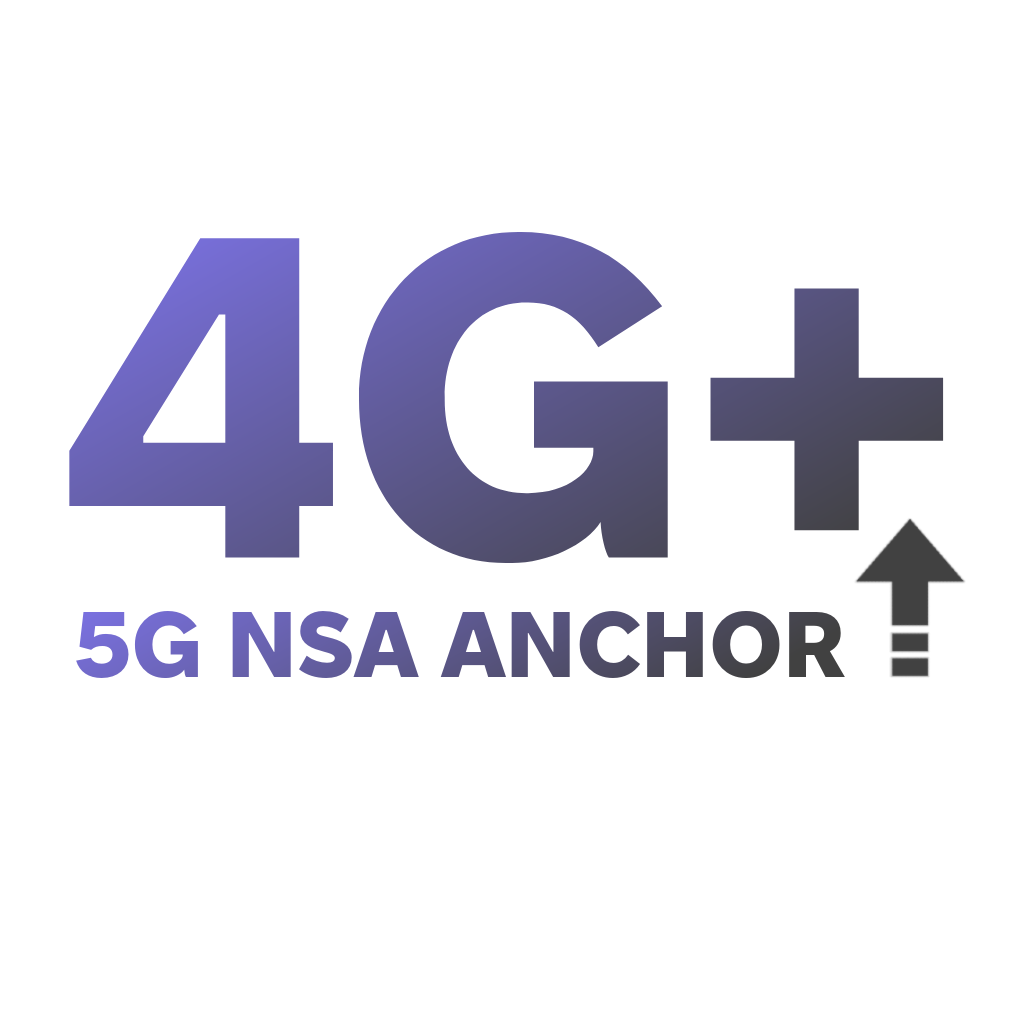
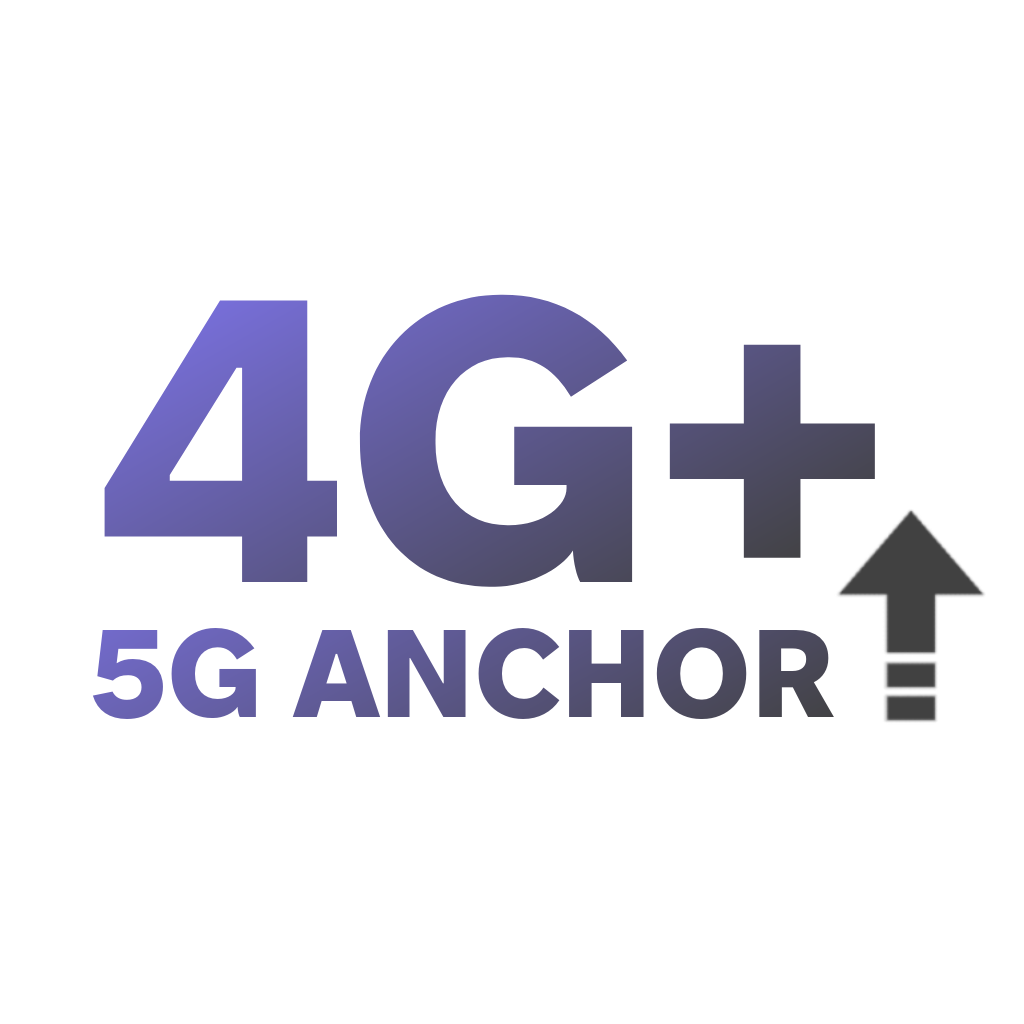
Add support for override network type in cell data processing and display

Changed region(s): [[0.0625, 0.2188, 0.9688, 0.7188]]

diff --git a/lib/helper/display.dart b/lib/helper/display.dart
@@ -9,8 +9,10 @@ String getNetworkIcon(CellData? cellData) {
     case '3G':
       return 'assets/images/NetworkIcons/3G.png';
     case '4G':
+
+      // Start NSA checks
       if (cellData.nrCcCount > 0) {
-        // 4G + 5G NSA
+        // NR NSA
         if (cellData.lteCcCount > 1) {
           // LTE CA
           if (cellData.nrCcCount > 1) {
@@ -29,15 +31,28 @@ String getNetworkIcon(CellData? cellData) {
         // NR NSA without LTE CA
         return 'assets/images/NetworkIcons/5GNSA.png';
       }
+      // End NSA checks
 
-      if (cellData.lteCcCount > 1) { // LTE CA only
+      // Start Anchor Band checks
+      if (cellData.overrideNetworkType == 'NR_NSA') {
+        // no NR band but NR_NSA, means camping on Anchor Band
+        if (cellData.lteCcCount > 1) {
+          return 'assets/images/NetworkIcons/4GPlus_NSAAnchor.png';
+        }
+        return 'assets/images/NetworkIcons/4G_NSAAnchor.png';
+      }
+      // End Anchor Band checks
+
+      if (cellData.lteCcCount > 1 || cellData.overrideNetworkType == 'LTE_CA') {
+        // LTE CA only
         return 'assets/images/NetworkIcons/4GPlus.png';
       }
 
       // Standard 4G
       return 'assets/images/NetworkIcons/4G.png';
     case 'SA':
-      if (cellData.nrCcCount > 1) { // NR SA CA
+      if (cellData.nrCcCount > 1) {
+        // NR SA CA
         return 'assets/images/NetworkIcons/5GPlusSA.png';
       }
 
@@ -99,65 +114,84 @@ String getImsIcon(String? imsStatus) {
 
 Widget getRsrpDisplay(double rsrp) {
   if (rsrp == 2683662) {
-    return Text("-", style: TextStyle(color: Colors.grey,));
+    return Text("-", style: TextStyle(color: Colors.grey));
   }
   Color color;
-  if (rsrp < -115) { // < -115 dBm
+  if (rsrp < -115) {
+    // < -115 dBm
     color = Colors.red;
-  } else if (rsrp < -105) { // -115 to -105 dBm
+  } else if (rsrp < -105) {
+    // -115 to -105 dBm
     color = Colors.orange;
-  } else if (rsrp < -90) { // -105 to -90 dBm
+  } else if (rsrp < -90) {
+    // -105 to -90 dBm
     color = Colors.yellow;
-  } else if (rsrp < -80) { // -90 to -80 dBm
+  } else if (rsrp < -80) {
+    // -90 to -80 dBm
     color = Colors.lightGreen;
-  } else if (rsrp < -75) {  // -80 to -75 dBm
+  } else if (rsrp < -75) {
+    // -80 to -75 dBm
     color = Colors.greenAccent;
-  } else { // > -75 dBm
+  } else {
+    // > -75 dBm
     color = const Color.fromARGB(255, 110, 209, 255);
   }
   final String displayText = "${rsrp.toInt()} dBm";
-  return Text(displayText, style: TextStyle(color: color,));
+  return Text(displayText, style: TextStyle(color: color));
 }
 
 Widget getSinrDisplay(double sinr) {
   if (sinr == 2683662) {
-    return Text("-", style: TextStyle(color: Colors.grey,));
+    return Text("-", style: TextStyle(color: Colors.grey));
   }
   Color color;
-  if (sinr < -15) { // < -15 dB
+  if (sinr < -15) {
+    // < -15 dB
     color = Colors.red;
-  } else if (sinr < -5) { // -15 to -5 dB
+  } else if (sinr < -5) {
+    // -15 to -5 dB
     color = Colors.deepOrange;
-  } else if (sinr < 0) { // -5 to 0 dB
+  } else if (sinr < 0) {
+    // -5 to 0 dB
     color = Colors.orange;
-  } else if (sinr < 13) { // 0 to 13 dB
+  } else if (sinr < 13) {
+    // 0 to 13 dB
     color = Colors.yellow;
-  } else if (sinr < 20) { // 13 to 20 dB
+  } else if (sinr < 20) {
+    // 13 to 20 dB
     color = Colors.lightGreen;
-  } else if (sinr < 26) { // 20 to 26 dB
+  } else if (sinr < 26) {
+    // 20 to 26 dB
     color = Colors.greenAccent;
-  } else { // > 26 dB
+  } else {
+    // > 26 dB
     color = const Color.fromARGB(255, 110, 209, 255);
   }
-  return Text("${sinr.toInt()} dB", style: TextStyle(color: color));   
+  return Text("${sinr.toInt()} dB", style: TextStyle(color: color));
 }
 
 Widget getRsrqDisplay(double rsrq) {
   if (rsrq == 2683662) {
-    return Text("-", style: TextStyle(color: Colors.grey,));
+    return Text("-", style: TextStyle(color: Colors.grey));
   }
   Color color;
-  if (rsrq < -25) { // < -25 dB
+  if (rsrq < -25) {
+    // < -25 dB
     color = Colors.red;
-  } else if (rsrq < -19) { // -25 to -19 dB
+  } else if (rsrq < -19) {
+    // -25 to -19 dB
     color = Colors.orange;
-  } else if (rsrq < -15) { // -19 to -15 dB
+  } else if (rsrq < -15) {
+    // -19 to -15 dB
     color = Colors.yellow;
-  } else if (rsrq < -11) { // -15 to -11 dB
+  } else if (rsrq < -11) {
+    // -15 to -11 dB
     color = Colors.lightGreen;
-  } else if (rsrq < -8) { // -11 to -8 dB
+  } else if (rsrq < -8) {
+    // -11 to -8 dB
     color = Colors.greenAccent;
-  } else { // > -8 dB
+  } else {
+    // > -8 dB
     color = const Color.fromARGB(255, 110, 209, 255);
   }
   return Text("${rsrq.toInt()} dB", style: TextStyle(color: color));
@@ -165,21 +199,30 @@ Widget getRsrqDisplay(double rsrq) {
 
 Widget getTaDisplay(double ta) {
   if (ta == 2683662) {
-    return Text("-", style: TextStyle(color: Colors.grey,));
+    return Text("-", style: TextStyle(color: Colors.grey));
   }
   Color color;
-  if (ta > 192) { // > 192 
+  if (ta > 192) {
+    // > 192
     color = Colors.red;
-  } else if (ta > 65) { // 193 to 65
+  } else if (ta > 65) {
+    // 193 to 65
     color = Colors.orange;
-  } else if (ta > 26) {  // 66 to 26
+  } else if (ta > 26) {
+    // 66 to 26
     color = Colors.yellow;
-  } else if (ta > 7) {  // 27 to 7
+  } else if (ta > 7) {
+    // 27 to 7
     color = Colors.lightGreen;
-  } else if (ta > 4) {  // 8 to 4
+  } else if (ta > 4) {
+    // 8 to 4
     color = Colors.greenAccent;
-  } else { // <= 4
+  } else {
+    // <= 4
     color = const Color.fromARGB(255, 110, 209, 255);
   }
-  return Text("${ta.toInt()} (${ta.toInt() * 78} m)", style: TextStyle(color: color));
+  return Text(
+    "${ta.toInt()} (${ta.toInt() * 78} m)",
+    style: TextStyle(color: color),
+  );
 }

diff --git a/lib/helper/netinfo.dart b/lib/helper/netinfo.dart
@@ -6,7 +6,7 @@ import 'package:flutter_cell_info/flutter_cell_info.dart';
 
 ///////////////////////////////////////////////////////////
 //////////////// NOTE ON CONSTANT 2683662 /////////////////
-/// This constant value (2683662) is used to represent
+/// This constant value (2683662) is used to represent 
 /// unavailable or invalid signal metrics in the
 /// FlutterCellInfo plugin. If a signal metric (like RSRP,
 /// RSRQ, SINR) returns this value, it indicates that the
@@ -27,6 +27,7 @@ class CellData {
   final double nsaSinr;
   final double ta; // 4G only
   final int dataConnStatus; // -1: unknown, 0: idle, 1: connecting, 2: connected
+  final String overrideNetworkType; // e.g. NONE, LTE_CA, LTE_ADVANCED, NR_NSA, NR_ADVANCED
 
   CellData({
     required this.networkType,
@@ -43,6 +44,7 @@ class CellData {
     this.nsaRsrq = 2683662,
     this.nsaSinr = 2683662,
     required this.dataConnStatus,
+    required this.overrideNetworkType,
   });
 
   @override
@@ -100,7 +102,7 @@ Future<CellData> getCellInfo() async {
     // }
 
     final List<double> bandwidths = await ServiceStateService.getBandwidths();
-
+    final String overrideNetworkType = await CellService.getOverrideNetworkType();
     String type = cellDataList[0]['type'];
     if (type == 'LTE') {
       // 4G or 4G + 5G NSA
@@ -110,6 +112,7 @@ Future<CellData> getCellInfo() async {
         usingCa,
         cpu,
         bandwidths,
+        overrideNetworkType
       );
     } else if (type == 'NR') {
       // 5G SA
@@ -119,6 +122,7 @@ Future<CellData> getCellInfo() async {
         usingCa,
         cpu,
         bandwidths,
+        overrideNetworkType
       );
     } else {
       return Future.error("Unsupported cell type: $type");
@@ -135,6 +139,7 @@ CellData processLteCellInfo(
   bool usingCa,
   String cpu,
   List<double> bandwidths,
+  String overrideNetworkType,
 ) {
   Map<String, dynamic> cellDataList = data['primaryCellList'][0]['lte'];
 
@@ -277,6 +282,7 @@ CellData processLteCellInfo(
     nsaSinr: nsaSinr,
     ta: ta,
     dataConnStatus: dataConnStatus,
+    overrideNetworkType: overrideNetworkType,
 
     // detailedNetworkType: detailedNetworkType,
   );
@@ -288,6 +294,7 @@ CellData processNrCellInfo(
   bool usingCa,
   String cpu,
   List<double> bandwidths,
+  String overrideNetworkType,
 ) {
   Map<String, dynamic> cellDataList = data['primaryCellList'][0]['nr'];
 
@@ -358,5 +365,6 @@ CellData processNrCellInfo(
     rsrq: rsrq,
     dataConnStatus: dataConnStatus,
     // detailedNetworkType: detailedNetworkType,
+    overrideNetworkType: overrideNetworkType,
   );
 }

diff --git a/lib/pages/debug.dart b/lib/pages/debug.dart
@@ -116,6 +116,7 @@ Build Number: ${info.buildNumber}
 
 ============================================
 
+Override Network Type: ${await CellService.getOverrideNetworkType()}
 Using Carrier Aggregation: ${usingCa ? "YES" : "NO"}
 
 ============================================
